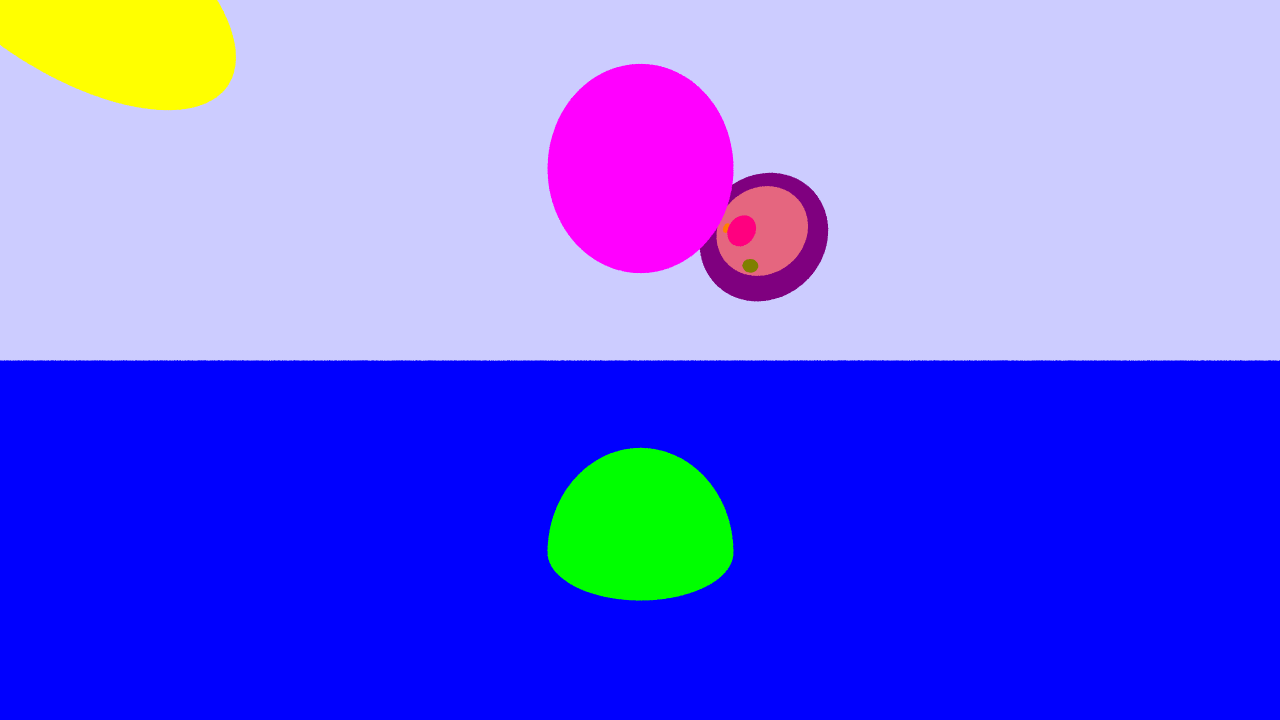
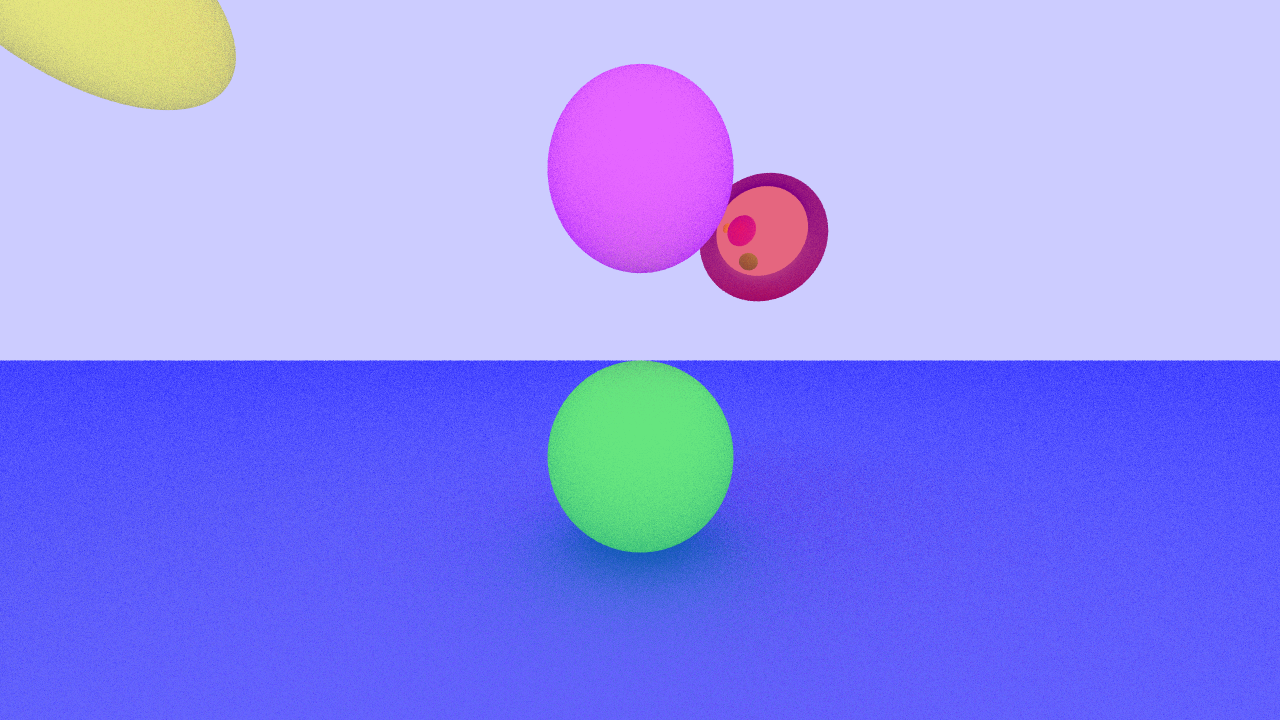
Some hacky diffuse lighting

diff --git a/main.go b/main.go
@@ -41,12 +41,15 @@ type Hit struct {
 var world = []Shape{
 	Sphere{Vec3{1, 1, 3}, 0.5, Material{Vec3{1, 0, 0}, 0.5}},
 	Plane{Vec3{0, 1, 0}, -1, Material{Vec3{0, 0, 1}, 0}},
-	Sphere{Vec3{0, -1, 2}, 0.5, Material{Vec3{0, 1, 0}, 0}},
+	Sphere{Vec3{0, -0.5, 2}, 0.5, Material{Vec3{0, 1, 0}, 0}},
 	Sphere{Vec3{-3, 2, 2}, 0.5, Material{Vec3{1, 1, 0}, 0}},
 	Sphere{Vec3{0, 1, 2}, 0.5, Material{Vec3{1, 0, 1}, 0}},
 }
 
-func castRay(ray Ray, bounced int) Vec3 {
+func castRay(ray Ray, rng *rand.Rand, bounced int) Vec3 {
+	if bounced >= 9 {
+		return Vec3{0, 0, 0}
+	}
 	closest := float32(math.MaxFloat32)
 	var closestHit *Hit
 	for _, shape := range world {
@@ -59,13 +62,16 @@ func castRay(ray Ray, bounced int) Vec3 {
 
 	if closestHit != nil {
 		specular := closestHit.Material.Specular
-		if specular > 0 && bounced < 8 {
+		if specular > 0 {
 			direction := Add(MulScalar(2*Dot(closestHit.Normal, MulScalar(-1, ray.Direction)), closestHit.Normal), ray.Direction)
 			bouncingRay := Ray{ray.At(closestHit.T), direction}
 			return Add(MulScalar(1-specular, closestHit.Material.Color),
-				MulScalar(specular, castRay(bouncingRay, bounced+1)))
+				MulScalar(specular, castRay(bouncingRay, rng, bounced+1)))
 		}
-		return closestHit.Material.Color
+		hitPoint := ray.At(closestHit.T)
+		direction := Normalize(Add(RandomPointInUnitSphere(rng), closestHit.Normal))
+		bouncingRay := Ray{hitPoint, direction}
+		return Add(MulScalar(0.5, castRay(bouncingRay, rng, bounced+1)), MulScalar(0.5, closestHit.Material.Color))
 	}
 
 	return Vec3{0.8, 0.8, 1}
@@ -83,7 +89,7 @@ func getColor(x int, y int, rng *rand.Rand) Vec3 {
 		direction := Normalize(Vec3{scaledX, scaledY, 1})
 		cameraOrigin := Vec3{0, 0, 0}
 		ray := Ray{cameraOrigin, direction}
-		color = Add(color, castRay(ray, 0))
+		color = Add(color, castRay(ray, rng, 0))
 
 	}
 	return MulScalar(1/float32(numSamples), color)

diff --git a/math.go b/math.go
@@ -4,6 +4,7 @@ import (
 	"fmt"
 	"image/color"
 	"math"
+	"math/rand"
 )
 
 // Vec3 represents a 3D vector
@@ -20,6 +21,11 @@ func (v *Vec3) String() string {
 // RGBA interpretation of the vector
 func (v *Vec3) RGBA() color.Color {
 	return color.RGBA{uint8(v.X * 255), uint8(v.Y * 255), uint8(v.Z * 255), 255}
+}
+
+// SquaredLength of the vector
+func (v *Vec3) SquaredLength() float32 {
+	return Dot(*v, *v)
 }
 
 // Length of the vector
@@ -60,4 +66,19 @@ func MulScalar(s float32, a Vec3) Vec3 {
 // Mul computes the elementwise product between two vectors
 func Mul(a Vec3, b Vec3) Vec3 {
 	return Vec3{a.X * b.X, a.Y * b.Y, a.Z * b.Z}
+}
+
+// RandomUniform sample a random number in [-1, 1)
+func RandomUniform(rng *rand.Rand) float32 {
+	return rng.Float32()*2 - 1
+}
+
+// RandomPointInUnitSphere samples a random point inside the unit sphere
+func RandomPointInUnitSphere(rng *rand.Rand) Vec3 {
+	for {
+		v := Vec3{RandomUniform(rng), RandomUniform(rng), RandomUniform(rng)}
+		if v.SquaredLength() <= 1 {
+			return v
+		}
+	}
 }
